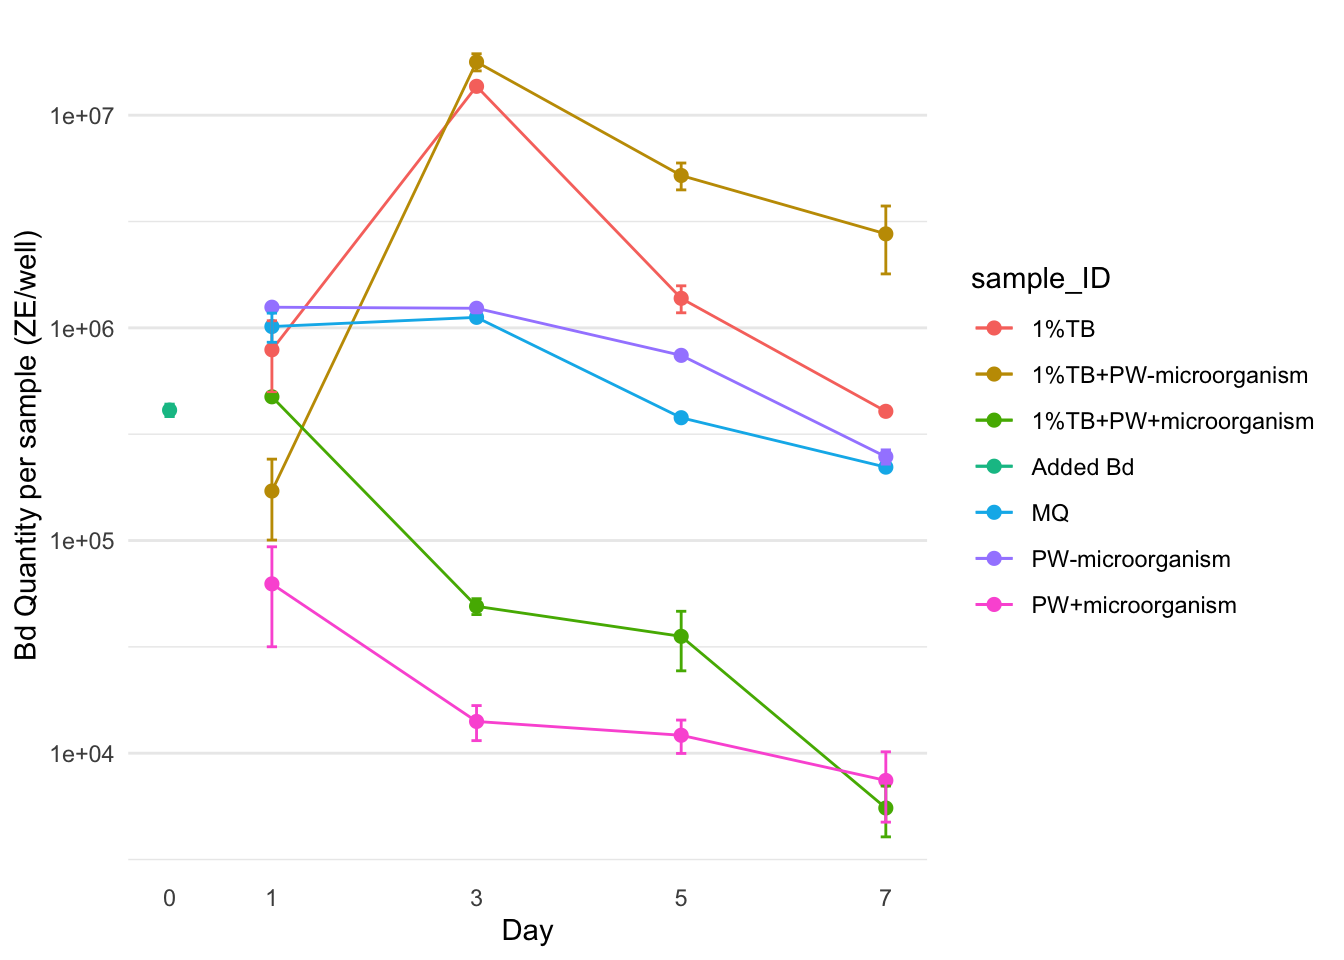
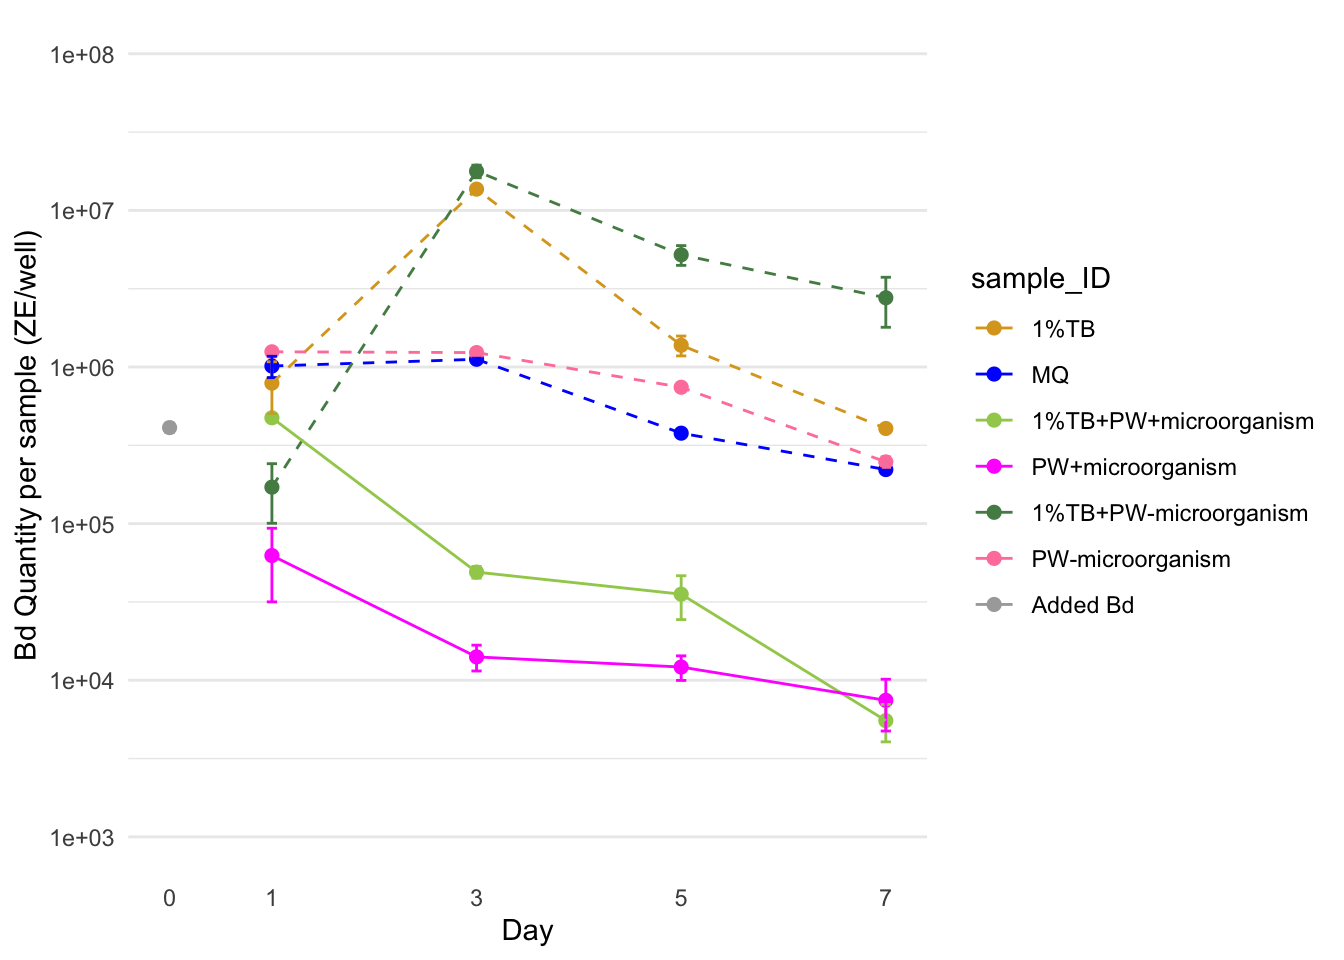
match Renwei's scales

diff --git a/NCOS-biofilm.html b/NCOS-biofilm.html
@@ -165,23 +165,47 @@ pre > code.sourceCode > span > a:first-child::before { text-decoration: underlin
 <details>
 <summary>Code</summary>
 <div class="sourceCode cell-code" id="cb3"><pre class="sourceCode r code-with-copy"><code class="sourceCode r"><span id="cb3-1"><a href="#cb3-1" aria-hidden="true" tabindex="-1"></a>fig2b_summary <span class="sc">%&gt;%</span> </span>
-<span id="cb3-2"><a href="#cb3-2" aria-hidden="true" tabindex="-1"></a>  <span class="fu">ggplot</span>(<span class="fu">aes</span>(<span class="at">x =</span> day, </span>
-<span id="cb3-3"><a href="#cb3-3" aria-hidden="true" tabindex="-1"></a>           <span class="at">y =</span> mean, </span>
-<span id="cb3-4"><a href="#cb3-4" aria-hidden="true" tabindex="-1"></a>           <span class="at">color =</span> sample_ID)) <span class="sc">+</span></span>
-<span id="cb3-5"><a href="#cb3-5" aria-hidden="true" tabindex="-1"></a>  <span class="fu">geom_point</span>(<span class="at">size =</span> <span class="dv">2</span>) <span class="sc">+</span></span>
-<span id="cb3-6"><a href="#cb3-6" aria-hidden="true" tabindex="-1"></a>  <span class="fu">geom_line</span>() <span class="sc">+</span> </span>
-<span id="cb3-7"><a href="#cb3-7" aria-hidden="true" tabindex="-1"></a>  <span class="fu">geom_errorbar</span>(<span class="fu">aes</span>(<span class="at">ymin =</span> mean <span class="sc">-</span> se, <span class="co"># plot the standard error</span></span>
-<span id="cb3-8"><a href="#cb3-8" aria-hidden="true" tabindex="-1"></a>                    <span class="at">ymax =</span> mean <span class="sc">+</span> se),</span>
-<span id="cb3-9"><a href="#cb3-9" aria-hidden="true" tabindex="-1"></a>                <span class="at">width =</span> <span class="fl">0.1</span>) <span class="sc">+</span></span>
-<span id="cb3-10"><a href="#cb3-10" aria-hidden="true" tabindex="-1"></a>  <span class="fu">scale_y_log10</span>() <span class="sc">+</span></span>
-<span id="cb3-11"><a href="#cb3-11" aria-hidden="true" tabindex="-1"></a>  <span class="co"># vibes</span></span>
-<span id="cb3-12"><a href="#cb3-12" aria-hidden="true" tabindex="-1"></a>  <span class="fu">labs</span>(<span class="at">x =</span> <span class="st">"Day"</span>,</span>
-<span id="cb3-13"><a href="#cb3-13" aria-hidden="true" tabindex="-1"></a>       <span class="at">y =</span> <span class="st">"Bd Quantity per sample (ZE/well)"</span>) <span class="sc">+</span></span>
-<span id="cb3-14"><a href="#cb3-14" aria-hidden="true" tabindex="-1"></a>  <span class="fu">theme_minimal</span>() <span class="sc">+</span></span>
-<span id="cb3-15"><a href="#cb3-15" aria-hidden="true" tabindex="-1"></a>  <span class="fu">theme</span>(</span>
-<span id="cb3-16"><a href="#cb3-16" aria-hidden="true" tabindex="-1"></a>    <span class="at">panel.grid.major.x =</span> <span class="fu">element_blank</span>(), <span class="co"># Remove major vertical grid lines</span></span>
-<span id="cb3-17"><a href="#cb3-17" aria-hidden="true" tabindex="-1"></a>    <span class="at">panel.grid.minor.x =</span> <span class="fu">element_blank</span>()) <span class="sc">+</span> <span class="co"># Remove minor vertical grid lines +</span></span>
-<span id="cb3-18"><a href="#cb3-18" aria-hidden="true" tabindex="-1"></a>  <span class="fu">scale_x_continuous</span>(<span class="at">breaks =</span> <span class="fu">c</span>(<span class="dv">0</span>, <span class="dv">1</span>, <span class="dv">3</span>, <span class="dv">5</span>, <span class="dv">7</span>))</span></code><button title="Copy to Clipboard" class="code-copy-button"><i class="bi"></i></button></pre></div>
+<span id="cb3-2"><a href="#cb3-2" aria-hidden="true" tabindex="-1"></a>  <span class="co"># reorder to match Renwei's plot</span></span>
+<span id="cb3-3"><a href="#cb3-3" aria-hidden="true" tabindex="-1"></a>  <span class="fu">mutate</span>(<span class="at">sample_ID =</span> <span class="fu">factor</span>(sample_ID, </span>
+<span id="cb3-4"><a href="#cb3-4" aria-hidden="true" tabindex="-1"></a>                            <span class="at">levels =</span> <span class="fu">c</span>(<span class="st">"1%TB"</span>, <span class="st">"MQ"</span>, <span class="st">"1%TB+PW+microorganism"</span>, <span class="st">"PW+microorganism"</span>, <span class="st">"1%TB+PW-microorganism"</span>, <span class="st">"PW-microorganism"</span>, <span class="st">"Added Bd"</span>))) <span class="sc">%&gt;%</span> </span>
+<span id="cb3-5"><a href="#cb3-5" aria-hidden="true" tabindex="-1"></a>    <span class="fu">mutate</span>(<span class="at">line_type =</span> <span class="fu">case_when</span>(</span>
+<span id="cb3-6"><a href="#cb3-6" aria-hidden="true" tabindex="-1"></a>    sample_ID <span class="sc">==</span> <span class="st">"1%TB"</span> <span class="sc">~</span> <span class="st">"dotted"</span>,</span>
+<span id="cb3-7"><a href="#cb3-7" aria-hidden="true" tabindex="-1"></a>    sample_ID <span class="sc">==</span> <span class="st">"MQ"</span> <span class="sc">~</span> <span class="st">"dotted"</span>,</span>
+<span id="cb3-8"><a href="#cb3-8" aria-hidden="true" tabindex="-1"></a>    sample_ID <span class="sc">==</span> <span class="st">"1%TB+PW+microorganism"</span> <span class="sc">~</span> <span class="st">"solid"</span>,</span>
+<span id="cb3-9"><a href="#cb3-9" aria-hidden="true" tabindex="-1"></a>    sample_ID <span class="sc">==</span> <span class="st">"PW+microorganism"</span> <span class="sc">~</span> <span class="st">"solid"</span>,</span>
+<span id="cb3-10"><a href="#cb3-10" aria-hidden="true" tabindex="-1"></a>    sample_ID <span class="sc">==</span> <span class="st">"1%TB+PW-microorganism"</span> <span class="sc">~</span> <span class="st">"dotted"</span>,</span>
+<span id="cb3-11"><a href="#cb3-11" aria-hidden="true" tabindex="-1"></a>    sample_ID <span class="sc">==</span> <span class="st">"PW-microorganism"</span> <span class="sc">~</span> <span class="st">"dotted"</span>,</span>
+<span id="cb3-12"><a href="#cb3-12" aria-hidden="true" tabindex="-1"></a>    sample_ID <span class="sc">==</span> <span class="st">"Added Bd"</span> <span class="sc">~</span> <span class="st">"solid"</span>,</span>
+<span id="cb3-13"><a href="#cb3-13" aria-hidden="true" tabindex="-1"></a>    <span class="cn">TRUE</span> <span class="sc">~</span> <span class="st">"solid"</span>  <span class="co"># Default case, if any</span></span>
+<span id="cb3-14"><a href="#cb3-14" aria-hidden="true" tabindex="-1"></a>  )) <span class="sc">%&gt;%</span> </span>
+<span id="cb3-15"><a href="#cb3-15" aria-hidden="true" tabindex="-1"></a></span>
+<span id="cb3-16"><a href="#cb3-16" aria-hidden="true" tabindex="-1"></a>  <span class="fu">ggplot</span>(<span class="fu">aes</span>(<span class="at">x =</span> day, </span>
+<span id="cb3-17"><a href="#cb3-17" aria-hidden="true" tabindex="-1"></a>           <span class="at">y =</span> mean, </span>
+<span id="cb3-18"><a href="#cb3-18" aria-hidden="true" tabindex="-1"></a>           <span class="at">color =</span> sample_ID)) <span class="sc">+</span></span>
+<span id="cb3-19"><a href="#cb3-19" aria-hidden="true" tabindex="-1"></a>  <span class="fu">geom_point</span>(<span class="at">size =</span> <span class="dv">2</span>) <span class="sc">+</span></span>
+<span id="cb3-20"><a href="#cb3-20" aria-hidden="true" tabindex="-1"></a>  <span class="fu">geom_errorbar</span>(<span class="fu">aes</span>(<span class="at">ymin =</span> mean <span class="sc">-</span> se, <span class="co"># plot the standard error</span></span>
+<span id="cb3-21"><a href="#cb3-21" aria-hidden="true" tabindex="-1"></a>                    <span class="at">ymax =</span> mean <span class="sc">+</span> se),</span>
+<span id="cb3-22"><a href="#cb3-22" aria-hidden="true" tabindex="-1"></a>                <span class="at">width =</span> <span class="fl">0.1</span>) <span class="sc">+</span></span>
+<span id="cb3-23"><a href="#cb3-23" aria-hidden="true" tabindex="-1"></a>    <span class="fu">geom_line</span>(<span class="fu">aes</span>(<span class="at">linetype =</span> line_type), <span class="at">show.legend =</span> <span class="cn">FALSE</span>) <span class="sc">+</span> </span>
+<span id="cb3-24"><a href="#cb3-24" aria-hidden="true" tabindex="-1"></a>  <span class="fu">scale_y_log10</span>(<span class="at">limits =</span> <span class="fu">c</span>(<span class="fl">1e3</span>, <span class="fl">1e8</span>), </span>
+<span id="cb3-25"><a href="#cb3-25" aria-hidden="true" tabindex="-1"></a>                <span class="at">breaks =</span> <span class="fu">c</span>(<span class="fl">1e3</span>, <span class="fl">1e4</span>, <span class="fl">1e5</span>, <span class="fl">1e6</span>, <span class="fl">1e7</span>, <span class="fl">1e8</span>)) <span class="sc">+</span></span>
+<span id="cb3-26"><a href="#cb3-26" aria-hidden="true" tabindex="-1"></a>  <span class="co"># vibes</span></span>
+<span id="cb3-27"><a href="#cb3-27" aria-hidden="true" tabindex="-1"></a>  <span class="fu">labs</span>(<span class="at">x =</span> <span class="st">"Day"</span>,</span>
+<span id="cb3-28"><a href="#cb3-28" aria-hidden="true" tabindex="-1"></a>       <span class="at">y =</span> <span class="st">"Bd Quantity per sample (ZE/well)"</span>) <span class="sc">+</span></span>
+<span id="cb3-29"><a href="#cb3-29" aria-hidden="true" tabindex="-1"></a>  <span class="fu">scale_color_manual</span>(<span class="at">values =</span> <span class="fu">c</span>(<span class="st">"1%TB"</span> <span class="ot">=</span> <span class="st">"goldenrod"</span>, </span>
+<span id="cb3-30"><a href="#cb3-30" aria-hidden="true" tabindex="-1"></a>                                <span class="st">"MQ"</span> <span class="ot">=</span> <span class="st">"blue"</span>, </span>
+<span id="cb3-31"><a href="#cb3-31" aria-hidden="true" tabindex="-1"></a>                                <span class="st">"1%TB+PW+microorganism"</span> <span class="ot">=</span> <span class="st">"darkolivegreen3"</span>, </span>
+<span id="cb3-32"><a href="#cb3-32" aria-hidden="true" tabindex="-1"></a>                                <span class="st">"PW+microorganism"</span> <span class="ot">=</span> <span class="st">"magenta"</span>, </span>
+<span id="cb3-33"><a href="#cb3-33" aria-hidden="true" tabindex="-1"></a>                                <span class="st">"1%TB+PW-microorganism"</span> <span class="ot">=</span> <span class="st">"palegreen4"</span>, </span>
+<span id="cb3-34"><a href="#cb3-34" aria-hidden="true" tabindex="-1"></a>                                <span class="st">"PW-microorganism"</span> <span class="ot">=</span> <span class="st">"palevioletred1"</span>,</span>
+<span id="cb3-35"><a href="#cb3-35" aria-hidden="true" tabindex="-1"></a>                                <span class="st">"Added Bd"</span> <span class="ot">=</span> <span class="st">"darkgrey"</span>)) <span class="sc">+</span> <span class="co"># Assign specific colors to match RC's plot</span></span>
+<span id="cb3-36"><a href="#cb3-36" aria-hidden="true" tabindex="-1"></a>  <span class="fu">scale_linetype_manual</span>(<span class="at">values =</span> <span class="fu">c</span>(<span class="st">"dotted"</span> <span class="ot">=</span> <span class="st">"dashed"</span>, </span>
+<span id="cb3-37"><a href="#cb3-37" aria-hidden="true" tabindex="-1"></a>                                   <span class="st">"solid"</span> <span class="ot">=</span> <span class="st">"solid"</span>)) <span class="sc">+</span></span>
+<span id="cb3-38"><a href="#cb3-38" aria-hidden="true" tabindex="-1"></a>  <span class="fu">theme_minimal</span>() <span class="sc">+</span></span>
+<span id="cb3-39"><a href="#cb3-39" aria-hidden="true" tabindex="-1"></a>  <span class="fu">theme</span>(</span>
+<span id="cb3-40"><a href="#cb3-40" aria-hidden="true" tabindex="-1"></a>    <span class="at">panel.grid.major.x =</span> <span class="fu">element_blank</span>(), <span class="co"># Remove major vertical grid lines</span></span>
+<span id="cb3-41"><a href="#cb3-41" aria-hidden="true" tabindex="-1"></a>    <span class="at">panel.grid.minor.x =</span> <span class="fu">element_blank</span>()) <span class="sc">+</span> <span class="co"># Remove minor vertical grid lines</span></span>
+<span id="cb3-42"><a href="#cb3-42" aria-hidden="true" tabindex="-1"></a>  <span class="fu">scale_x_continuous</span>(<span class="at">breaks =</span> <span class="fu">c</span>(<span class="dv">0</span>, <span class="dv">1</span>, <span class="dv">3</span>, <span class="dv">5</span>, <span class="dv">7</span>))</span></code><button title="Copy to Clipboard" class="code-copy-button"><i class="bi"></i></button></pre></div>
 </details>
 <div class="cell-output-display">
 <p><img src="NCOS-biofilm_files/figure-html/unnamed-chunk-3-1.png" class="img-fluid" width="672"></p>
